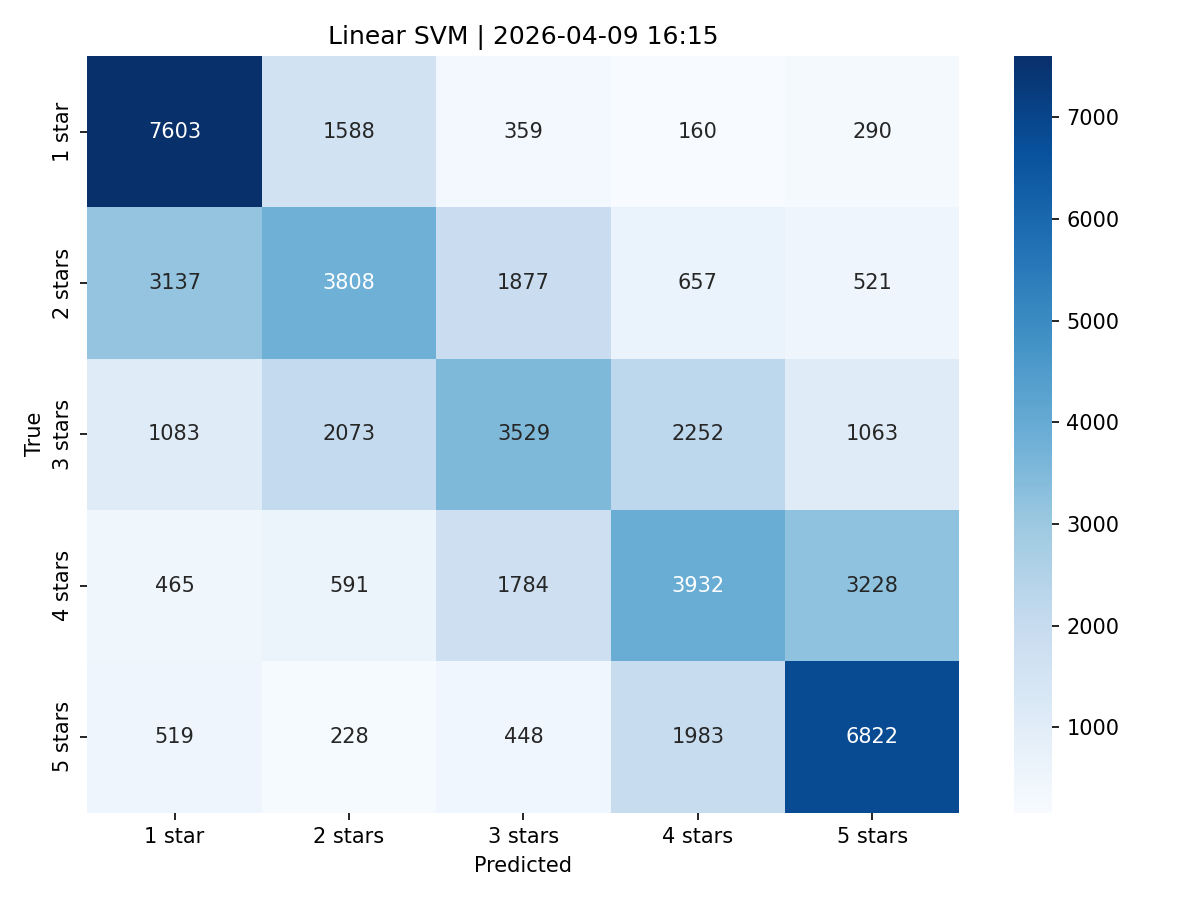
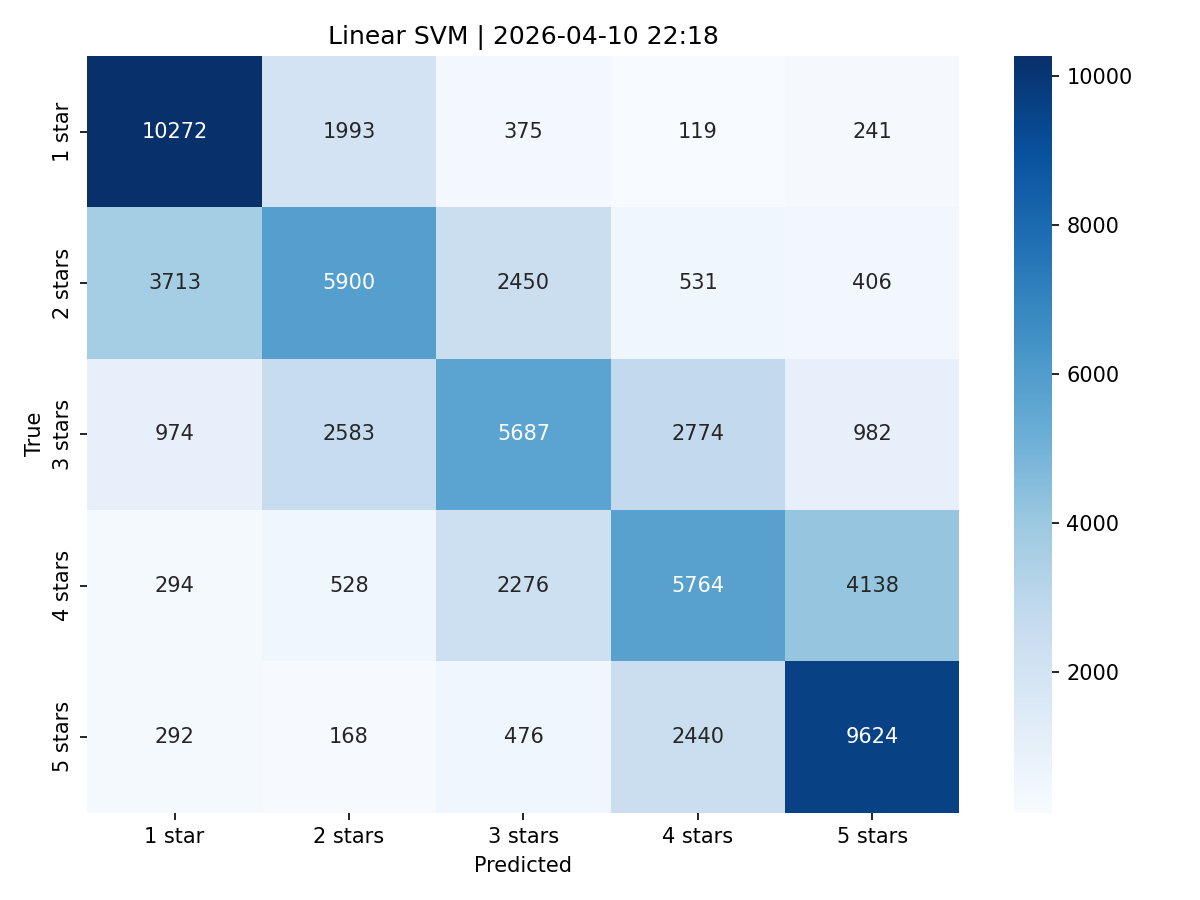
linear svm 650k final

diff --git a/Linear_SVM/Linear_SVM.py b/Linear_SVM/Linear_SVM.py
@@ -2,7 +2,7 @@
 Linear Support Vector Machine (SVM) on YelpReviewFull dataset (5-class star rating prediction).
 
 Run modes:
-    python Linear_SVM.py              # trains on 10k samples
+    python Linear_SVM.py              # trains on the full training split
     python Linear_SVM.py --size n     # trains on n samples
     python Linear_SVM.py --final      # runs on full test set
 '''
@@ -32,11 +32,13 @@ from utils import (
 SCRIPT_DIR = os.path.dirname(os.path.abspath(__file__))
 TUNING_LOG = os.path.join(SCRIPT_DIR, "tuning_log.md")
 BEST_PARAMS_FILE = os.path.join(SCRIPT_DIR, "best_params.json")
+DEFAULT_TRAIN_SIZE = 650000
+TUNING_TRAIN_SIZE = 650000
 
 
 def run_tuning():
     train_texts, y_train, val_texts, y_val, _, _ = load_yelp_data(
-        train_size=10000, val_split=0.2
+        train_size=TUNING_TRAIN_SIZE, val_split=0.2
     )
 
     def objective(trial):
@@ -70,7 +72,12 @@ def main():
     # args
     parser = argparse.ArgumentParser()
     parser.add_argument("--tune", action="store_true", help="Run automated Optuna hyperparameter tuning")
-    parser.add_argument("--size", type=int, default=10000, help="Number of training samples (default: 10000)")
+    parser.add_argument(
+        "--size",
+        type=int,
+        default=DEFAULT_TRAIN_SIZE,
+        help=f"Number of training samples (default: {DEFAULT_TRAIN_SIZE})",
+    )
     parser.add_argument("--final", action="store_true", help="Evaluate on the full test set")
     args = parser.parse_args()
 
@@ -84,7 +91,7 @@ def main():
     # load best params from tune
     best, _ = load_best_config(BEST_PARAMS_FILE)
 
-    #  load sub-sampled dataset
+    # load dataset
     with timed_step(f"Loading Dataset (size={args.size})"):
         train_texts, y_train, val_texts, y_val, test_texts, test_labels = load_yelp_data(train_size=args.size)
 

diff --git a/Linear_SVM/results_log.md b/Linear_SVM/results_log.md
@@ -2,20 +2,20 @@
 
 ## Linear SVM (validation, best config)
 
-- **Date:** 2026-04-09 16:00
-- **Device:** NVIDIA GeForce RTX 4080 SUPER
-- **Accuracy:** 0.5090
-- **Macro Precision:** 0.4992
-- **Macro Recall:** 0.5090
-- **Macro F1:** 0.5027
-- **Time:** 10.5s (0.2m)
+- **Date:** 2026-04-10 22:18
+- **Device:** NVIDIA GeForce RTX 5090
+- **Accuracy:** 0.5730
+- **Macro Precision:** 0.5630
+- **Macro Recall:** 0.5730
+- **Macro F1:** 0.5645
+- **Time:** 100.5s (1.7m)
 
 ## Linear SVM (final, best config)
 
-- **Date:** 2026-04-09 16:15
-- **Device:** NVIDIA GeForce RTX 4080 SUPER
-- **Accuracy:** 0.5139
-- **Macro Precision:** 0.5008
-- **Macro Recall:** 0.5139
-- **Macro F1:** 0.5024
-- **Time:** 11.3s (0.2m)
+- **Date:** 2026-04-10 22:12
+- **Device:** NVIDIA GeForce RTX 5090
+- **Accuracy:** 0.5737
+- **Macro Precision:** 0.5640
+- **Macro Recall:** 0.5737
+- **Macro F1:** 0.5656
+- **Time:** 101.6s (1.7m)
